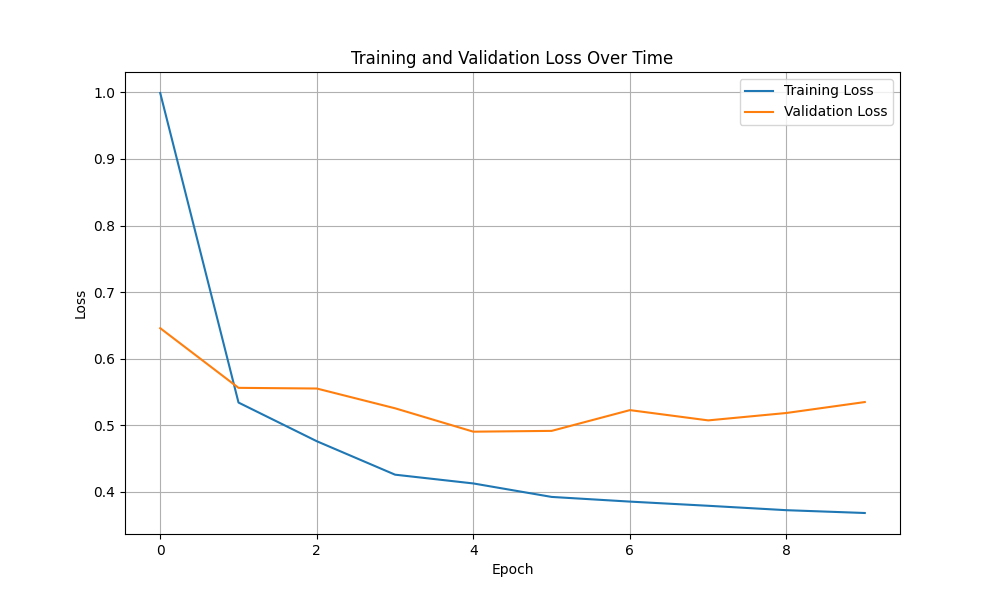
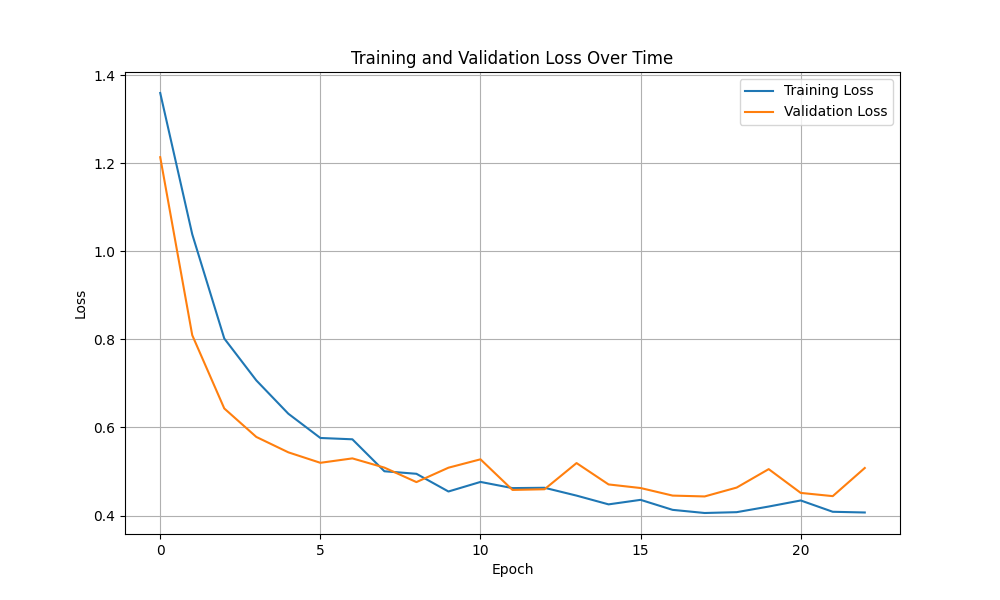
Lucas flamed my batch progress logging :c

diff --git a/src/instrument_classifier/train.py b/src/instrument_classifier/train.py
@@ -123,7 +123,7 @@ def train_model(cfg: DictConfig) -> None:
             total_train_samples += batch_size
 
             # Log batch loss to the designated file for specific batches
-            if batch_idx + 1 in [1, 10, 20, 30, 40, 50, 60]:
+            if batch_idx % 10 == 1:
                 logger.info(f"Batch [{batch_idx+1}/{len(train_loader)}], Loss: {loss.item():.4f}")
 
         avg_train_loss = total_train_loss / total_train_samples
